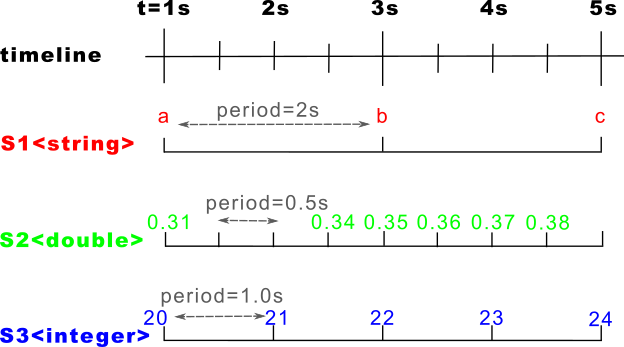
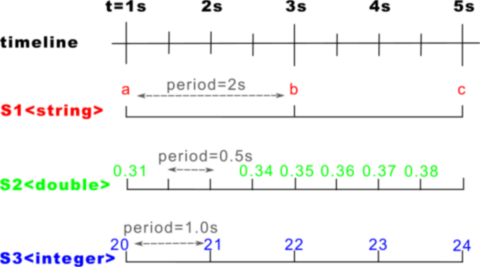
readme: complete links. doc: resize figure

diff --git a/README.md b/README.md
@@ -4,7 +4,7 @@
 
 Stream Aligner and Time stamp utility for the ESROCOS framework. This utility is
 only useful in the dataflow of component-based systems, this is in port-driven
-functions of ![TASTE] (https://taste.tuxfamily.org). The processing is done
+functions of [TASTE](https://taste.tuxfamily.org). The processing is done
 asynchronously: components process data as it arrives. Since different
 processing chains have different computation times, it means that our carefully
 timestamped data will most probably arrive out-of-order at the components that
@@ -85,11 +85,15 @@ dropped. This parameter is therefore a trade-off between the maximum latency
 that the processing chain can accept and how exact the result needs to be.
 
 ## Example of Usage
-There is an example of usage in the test folder ![here](). The example explain
-the use of the Stream Aligner in order to process the samples in three different
-streams. Configuration numbers are king in the Stream Aligner, the following
-code show the more important ones:
+There is an example of usage in the test folder
+[here](test/test_example_usage.cpp).
+The example explain the use of the Stream Aligner in order to process the
+samples in three different streams. The example is graohically exapleined here:
 
+![Example Usage Figure](doc/figures/stream_aligner_example.png)
+
+Configuration numbers are key in the Stream Aligner, the following
+code explains the more important ones:
 
 ```cpp
 /** Windows size in seconds **/
